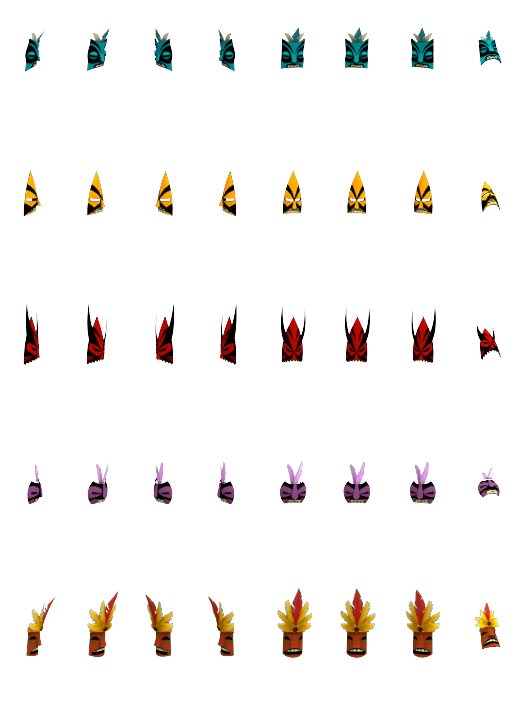
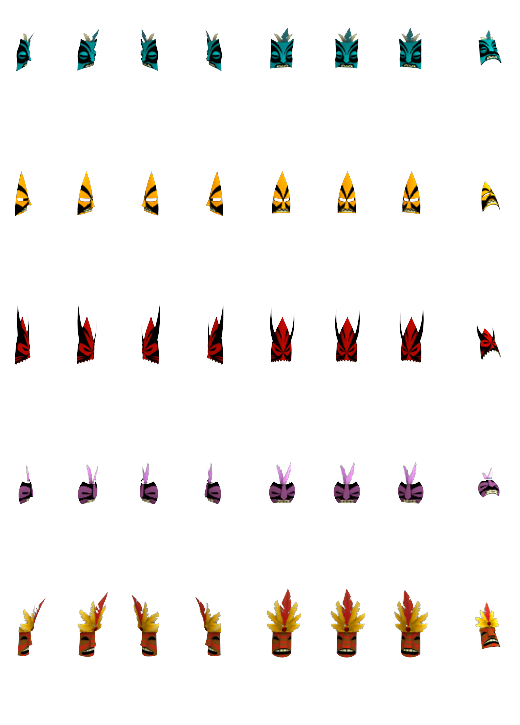
VV1 masks: bake per-facing X into atlas (zero draw-time X); zero Details per-color double-correction
1) Per-facing X registration baked into mask_atlas.png (my companion file, not game
   art): each facing column shifted so its mask-face-x lands on that facing's head-
   face-x (VV2-measured VV1 anchors: 22.8..19.0 across the 7 facings). Per-facing
   shifts were -9..-14 px -- which is exactly why the old single -12 draw constant
   was right on front facings and off on profiles. Both draw paths (adult + child)
   now apply ZERO X offset; the mask seats horizontally by construction at every
   facing and any scale. Offscreen: head-face vs mask-face X residual <=0.9px, all 7.

2) Details portrait: zeroed VV_PORTRAIT_RED_EXTRA_DY / PURPLE_EXTRA_DY. Those
   compensated for the pre-bake per-color Y spread; with per-color Y now baked into
   the atlas they were a second correction on an already-corrected sheet (red/purple
   drifting on the bighead). Offscreen: per-color mask-face-y spread 7px -> 1.4px.

Cross-check: my per-facing head-face-x matches VV2's independent measurement of VV1's
own art (two independent measurements agree). Verified offscreen, deployed to the real
game folder, hash-verified exe+DLL+atlas, launched once: ALIVE, started after write.

diff --git a/scripts/build_vv1_origins_feature.py b/scripts/build_vv1_origins_feature.py
@@ -2807,9 +2807,9 @@ def main() -> None:
             imul eax, eax, 15
             sar eax, 5
             sub dword ptr [esp + 8], eax          # arg3 = y - lift (re-seat to head-face)
-            mov eax, dword ptr [esp + 0x14]
-            sar eax, 3
-            sub dword ptr [esp + 4], eax          # arg2 = x - dx (centre on 40-wide head)
+            # NO X term: per-facing X is now BAKED into mask_atlas.png (each facing
+            # column shifted so its mask-face-x == that facing's head-face-x), so the
+            # mask seats horizontally by construction at every facing and any scale.
             mov ecx, dword ptr [0x{VILLAGE_SURFACE_SAVE_VA:X}]
             mov eax, dword ptr [0x{VILLAGE_FILL_SAVE_VA:X}]
             call 0x408af0
@@ -2964,8 +2964,9 @@ def main() -> None:
             # equivalent: (12,48)*adultScale. Shifts only the mask; it still tracks the
             # head's live x/y (that's the head's own draw position), just seated on the
             # face. Magnitude dialed to the adult on-screen scale.
-            sub dword ptr [esp + 4], 12           # arg2=x: left 12 (= child scaled-lift dx at scale 1.0; owner-confirmed gold standard)
-            sub dword ptr [esp + 8], 48           # arg3=y: up 48 (= child scaled-lift at scale 1.0; owner in-game confirmed -- adults draw slightly larger than a full child so the raw cell delta *adultScale lands here). Per-color Y baked into the atlas, so one constant serves all colors.
+            # NO X term: per-facing X is baked into mask_atlas.png (see child path), so
+            # the mask seats horizontally at every facing with zero draw-time X.
+            sub dword ptr [esp + 8], 48           # arg3=y: up 48 (= child scaled-lift at scale 1.0; owner in-game confirmed). Per-color Y also baked into the atlas, so one constant serves all colors.
             # Frame selection differs by DRAW FN behaviour, not by thunk:
             #  * 0x408840 (adult) idiv-DECODES a packed frame into row,col, so we
             #    re-PACK: arg4 = maskrow*mask_cols(8) + facing. (Adult atlas is

diff --git a/native/vv1_origins_icons/vv1_origins_icons.c b/native/vv1_origins_icons/vv1_origins_icons.c
@@ -353,14 +353,14 @@ static void vv1_mask_sidecar_load(void) {
 #define VV_PORTRAIT_MASK_DX   0
 #define VV_PORTRAIT_MASK_DY   (-47)     /* lift the mask up onto the face (Details renders the tall 160px cell ~1.8x, so needs a big lift; village uses -46 at 1:1). Was -52; user tuned +5 (down) 2026-08-27. */
 #define VV_PORTRAIT_MASK_LIFT 0
-/* The red mask cell's art sits a hair lower than the others, so give red alone a
-   small extra lift on the Detail portrait. mask value 3 == red (COLOURS =
-   blue,orange,red,purple,chief -> 1..5). */
+/* Per-colour Y registration is now BAKED into mask_atlas.png (every colour row
+   seated at the same in-cell face-y), so the Details portrait no longer needs its
+   own per-colour compensation -- it was a SECOND correction on an already-corrected
+   atlas (red/purple drifting on the bighead). Both zeroed. */
 #define VV_MASK_RED           3
-#define VV_PORTRAIT_RED_EXTRA_DY (-3)
-/* purple (mask value 4) cell art sits a hair high -- nudge it back down. */
+#define VV_PORTRAIT_RED_EXTRA_DY (0)
 #define VV_MASK_PURPLE        4
-#define VV_PORTRAIT_PURPLE_EXTRA_DY (2)
+#define VV_PORTRAIT_PURPLE_EXTRA_DY (0)
 
 /* Engine functions are called directly by their fixed .text addresses (stable
    -- patches live in .shr caves and never move .text). The two engine calls
